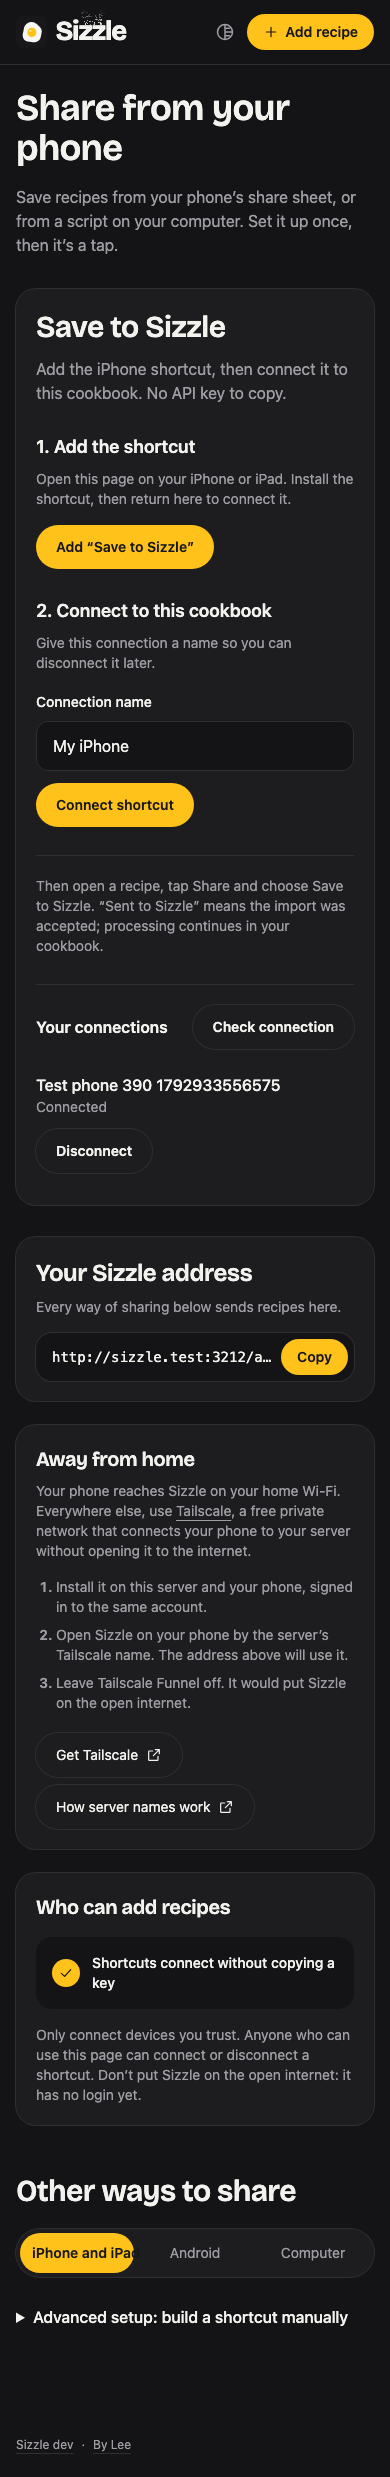
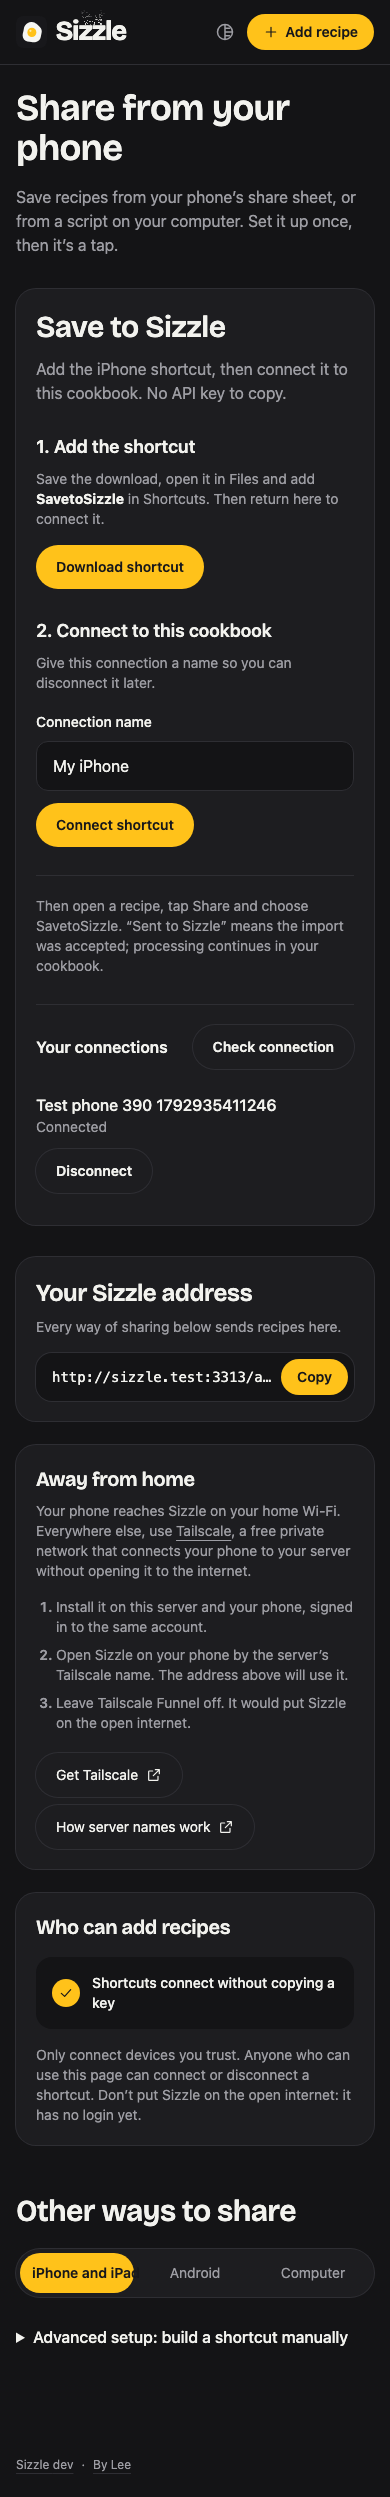
Match the installed shortcut name and percent-encode connection links

diff --git a/app/frontend/components/ShortcutSetup.tsx b/app/frontend/components/ShortcutSetup.tsx
@@ -3,13 +3,14 @@ import { useEffect, useState } from 'react'
 
 export type ShortcutPairing = {
   download_url: string
+  shortcut_name: string
   connections: { id: number; name: string; connected: boolean }[]
 }
 
 const button =
   'inline-flex min-h-11 items-center justify-center rounded-full px-5 py-3 text-sm font-semibold focus-visible:outline-2 focus-visible:outline-offset-4 focus-visible:outline-ink'
 
-export default function ShortcutSetup({ download_url, connections }: ShortcutPairing) {
+export default function ShortcutSetup({ download_url, shortcut_name, connections }: ShortcutPairing) {
   const [name, setName] = useState('My iPhone')
   const [busy, setBusy] = useState(false)
   const [connectUrl, setConnectUrl] = useState<string | null>(null)
@@ -62,10 +63,11 @@ export default function ShortcutSetup({ download_url, connections }: ShortcutPai
         <li>
           <h3 className="text-lg font-semibold">1. Add the shortcut</h3>
           <p className="mt-2 text-sm text-graphite">
-            Open this page on your iPhone or iPad. Install the shortcut, then return here to connect it.
+            Save the download, open it in Files and add <strong className="text-ink">{shortcut_name}</strong> in
+            Shortcuts. Then return here to connect it.
           </p>
           <a href={download_url} className={`${button} mt-4 bg-action text-on-action`}>
-            Add “Save to Sizzle”
+            Download shortcut
           </a>
         </li>
         <li>
@@ -108,7 +110,7 @@ export default function ShortcutSetup({ download_url, connections }: ShortcutPai
         </li>
       </ol>
       <p className="mt-7 border-t border-hairline pt-5 text-sm text-graphite">
-        Then open a recipe, tap Share and choose Save to Sizzle. “Sent to Sizzle” means the import was accepted;
+        Then open a recipe, tap Share and choose {shortcut_name}. “Sent to Sizzle” means the import was accepted;
         processing continues in your cookbook.
       </p>
       <div className="mt-7 border-t border-hairline pt-5">

diff --git a/test/browser/shortcut-pairing.spec.ts b/test/browser/shortcut-pairing.spec.ts
@@ -22,14 +22,24 @@ for (const width of [390, 1280]) {
     const name = `Test phone ${width} ${Date.now()}`
     await page.getByLabel('Connection name').fill(name)
     const downloadPromise = page.waitForEvent('download')
-    await page.getByRole('link', { name: 'Add “Save to Sizzle”' }).click()
-    expect((await downloadPromise).suggestedFilename()).toBe('Save to Sizzle.shortcut')
+    await page.getByRole('link', { name: 'Download shortcut', exact: true }).click()
+    const filename = (await downloadPromise).suggestedFilename()
+    expect(filename).toBe('SavetoSizzle.shortcut')
     await page.getByRole('button', { name: 'Connect shortcut', exact: true }).click()
     const open = page.getByRole('link', { name: 'Open Shortcuts to connect' })
     await expect(open).toBeVisible()
     const url = new URL((await open.getAttribute('href'))!)
     expect(url.protocol).toBe('shortcuts:')
-    const setup = JSON.parse(url.searchParams.get('text')!)
+    // A native URL consumer does not apply HTML form decoding of + characters.
+    const nativeQuery = Object.fromEntries(
+      url.search
+        .slice(1)
+        .split('&')
+        .map((part) => part.split('=').map(decodeURIComponent)),
+    )
+    expect(nativeQuery.name).toBe(filename.replace(/\.shortcut$/, ''))
+    expect(url.search).not.toContain('+')
+    const setup = JSON.parse(nativeQuery.text)
     // The local HTTP request emulates only the shortcut's transport, not iOS.
     const pairing = await context.request.post(localUrl(setup.pairing_url), {
       data: { pairing_token: setup.pairing_token },

diff --git a/test/controllers/shortcut_connections_controller_test.rb b/test/controllers/shortcut_connections_controller_test.rb
@@ -35,8 +35,8 @@ class ShortcutConnectionsControllerTest < ActionDispatch::IntegrationTest
     assert_equal "no-store", response.headers["Cache-Control"]
     url = URI(response.parsed_body.fetch("connect_url"))
     assert_equal "shortcuts", url.scheme
-    query = Rack::Utils.parse_query(url.query)
-    assert_equal "Save to Sizzle", query["name"]
+    query = shortcuts_query(url.query)
+    assert_equal "SavetoSizzle", query["name"]
     setup = JSON.parse(query.fetch("text"))
     assert_equal 1, setup["sizzle_pairing"]
     assert_equal api_shortcut_pairings_url, setup["pairing_url"]
@@ -46,6 +46,17 @@ class ShortcutConnectionsControllerTest < ActionDispatch::IntegrationTest
     assert_equal [ { "id" => ShortcutConnection.last.id, "name" => "Kitchen phone", "connected" => true } ], props["connections"]
     assert_not_includes response.body, setup["pairing_token"]
     assert_not_includes response.body, "credential_digest"
+  end
+
+  test "shortcut links percent encode spaces and literal plus signs" do
+    stub_const(ShortcutConnection, :SHORTCUT_NAME, "Save to Sizzle + kitchen") do
+      post shortcut_connections_url, params: { name: "Phone" }, as: :json
+      assert_response :success
+      url = URI(response.parsed_body.fetch("connect_url"))
+      assert_includes url.query, "name=Save%20to%20Sizzle%20%2B%20kitchen"
+      assert_not_includes url.query, "+"
+      assert_equal "Save to Sizzle + kitchen", shortcuts_query(url.query)["name"]
+    end
   end
 
   test "pairing creation and revocation require CSRF protection" do
@@ -103,7 +114,23 @@ class ShortcutConnectionsControllerTest < ActionDispatch::IntegrationTest
     get share_shortcut_url
     assert_response :success
     assert_equal "application/x-shortcut", response.media_type
-    assert_includes response.headers["Content-Disposition"], "Save to Sizzle.shortcut"
+    assert_includes response.headers["Content-Disposition"], 'filename="SavetoSizzle.shortcut"'
+    assert_includes response.headers["Content-Disposition"], "filename*=UTF-8''SavetoSizzle.shortcut"
+    template_name = Rails.root.join("config/shortcuts/save-to-sizzle.plist").read[/<key>WFWorkflowName<\/key>\s*<string>([^<]+)<\/string>/, 1]
+    assert_equal ShortcutConnection::SHORTCUT_NAME, template_name
     assert response.body.bytesize > 1000
+    get share_url
+    assert_equal ShortcutConnection::SHORTCUT_NAME, inertia.props[:shortcut_pairing]["shortcut_name"]
+  end
+
+  private
+
+  # Match Shortcuts' percent-only decoding. HTML form decoders would conceal
+  # the native-app bug by silently converting a literal + back into a space.
+  def shortcuts_query(query)
+    query.split("&").to_h do |part|
+      key, value = part.split("=", 2)
+      [ key, URI::DEFAULT_PARSER.unescape(value) ]
+    end
   end
 end

diff --git a/app/controllers/shortcut_connections_controller.rb b/app/controllers/shortcut_connections_controller.rb
@@ -6,7 +6,11 @@ class ShortcutConnectionsController < ApplicationController
   def create
     connection, pairing_token = ShortcutConnection.issue!(name: params[:name].to_s.strip)
     setup = { sizzle_pairing: 1, pairing_url: api_shortcut_pairings_url, pairing_token: }
-    query = { name: "Save to Sizzle", input: "text", text: setup.to_json }.to_query
+    # Shortcuts treats + literally; its custom URL scheme needs percent encoding,
+    # rather than HTML form encoding (which represents a space as +).
+    query = { name: ShortcutConnection::SHORTCUT_NAME, input: "text", text: setup.to_json }.map { |key, value|
+      "#{ERB::Util.url_encode(key.to_s)}=#{ERB::Util.url_encode(value)}"
+    }.join("&")
     response.headers["Cache-Control"] = "no-store"
     render json: { connect_url: "shortcuts://run-shortcut?#{query}", expires_at: connection.pairing_expires_at.iso8601 }
   rescue ActiveRecord::RecordInvalid, ArgumentError => e

diff --git a/app/controllers/share_controller.rb b/app/controllers/share_controller.rb
@@ -8,6 +8,7 @@ class ShareController < InertiaController
       token_required: Sizzle.api_token.present?,
       shortcut_pairing: Sizzle.shortcut_pairing? ? {
         download_url: share_shortcut_path,
+        shortcut_name: ShortcutConnection::SHORTCUT_NAME,
         connections: ShortcutConnection.visible.order(created_at: :desc).map { |connection|
           { id: connection.id, name: connection.name, connected: connection.connected_at.present? }
         }
@@ -19,7 +20,7 @@ class ShareController < InertiaController
     return head :not_found unless Sizzle.shortcut_pairing?
 
     send_file Rails.root.join("config/shortcuts/save-to-sizzle.shortcut"),
-      filename: "Save to Sizzle.shortcut", type: "application/x-shortcut"
+      filename: "#{ShortcutConnection::SHORTCUT_NAME}.shortcut", type: "application/x-shortcut"
   end
 
   private

diff --git a/app/models/shortcut_connection.rb b/app/models/shortcut_connection.rb
@@ -3,6 +3,7 @@ require "digest"
 # Only digests reach the database. The pairing code is single-use; the resulting
 # credential can only submit imports through Api::ShortcutImportsController.
 class ShortcutConnection < ApplicationRecord
+  SHORTCUT_NAME = "SavetoSizzle".freeze
   PAIRING_LIFETIME = 5.minutes
   MAX_CONNECTIONS = 50
 

diff --git a/docs/self-hosting.md b/docs/self-hosting.md
@@ -155,7 +155,8 @@ building the Shortcut in the Shortcuts app.
 
 For the prebuilt shortcut, set `SIZZLE_SHORTCUT_PAIRING=true` and restart Sizzle. Open
 **Share from your phone** on your iPhone using the server's home-network or Tailscale address,
-tap **Add “Save to Sizzle”**, then return and choose **Connect shortcut**. Open the connection
+tap **Download shortcut**, save the file, then open it in Files and add **SavetoSizzle** in
+Shortcuts. Return and choose **Connect shortcut**. Open the connection
 link within five minutes and approve the connection in Shortcuts. You do not need to copy
 `SIZZLE_API_TOKEN`. The original token-protected API remains available for scripts.
 
